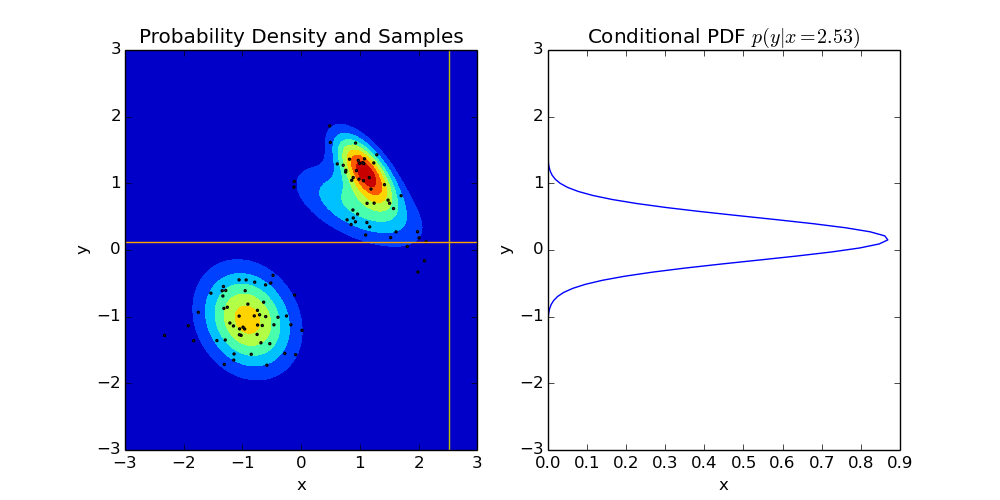
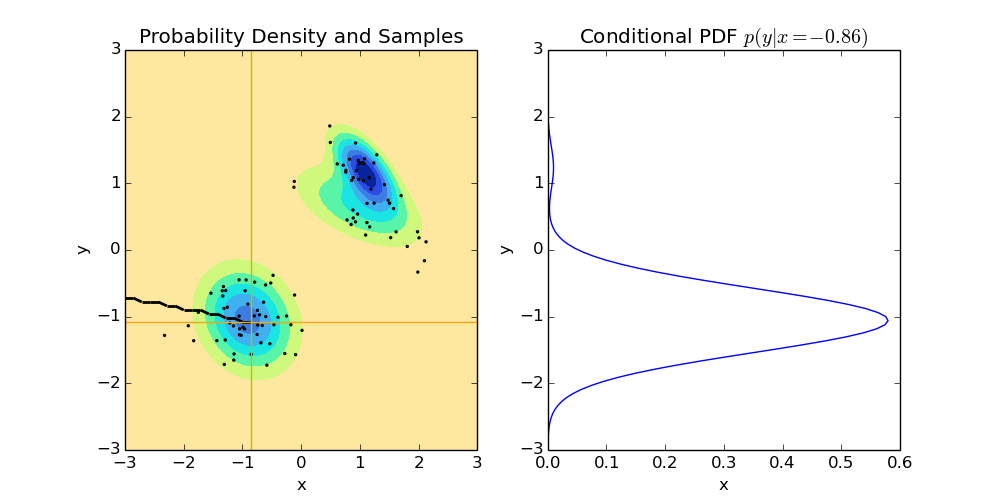
Added probability animations

diff --git a/examples/plot_estimate_gmm_custom_Prob.py b/examples/plot_estimate_gmm_custom_Prob.py
@@ -14,6 +14,8 @@ import numpy as np
 import matplotlib.pyplot as plt
 from gmr.utils import check_random_state
 from gmr import GMM, plot_error_ellipses
+from matplotlib import collections  as mc
+
 
 
 UPPER_LIMIT = 3
@@ -56,12 +58,19 @@ gmm.from_samples(X)
 
 # plt.subplot(1, 3, 2)
 
+# lines = [[(0, 1), (1, 1)], [(2, 3), (3, 3)], [(1, 2), (1, 3)]]
+lines = []
+prev = None
+# c = np.array([(1, 1, 1, 1), (0, 1, 0, 1), (0, 0, 1, 1)])
+c = []
+
 X_sampled = gmm.sample(100)
+SAMPLES = 50
 count = 0
-for i in np.linspace(-3,4,20):
+for i in np.linspace(-3,4, SAMPLES):
     plt.figure(figsize=(10, 5))
 
-    plt.subplot(1, 2, 1)
+    ax = plt.subplot(1, 2, 1)
     plt.title("Probability Density and Samples")
     plt.xlim((LOWER_LIMIT, UPPER_LIMIT))
     plt.ylim((LOWER_LIMIT, UPPER_LIMIT))
@@ -69,18 +78,37 @@ for i in np.linspace(-3,4,20):
     X_test = np.vstack((x.ravel(), y.ravel())).T
     p = gmm.to_probability_density(X_test)
     p = p.reshape(*x.shape)
-    plt.contourf(x, y, p)
+    plt.contourf(x, y, p, colors=('#FEE89F', '#D0F87C', '#58F5A9', '#19E5E3', '#41B0F1', '#3C7DE4', '#2B4BE6', '#08249D'))
     s = [2] * 100
     plt.scatter(X_sampled[:, 0], X_sampled[:, 1], c="pink", s=s)
     plt.xlabel('x')
     plt.ylabel('y')
-    plt.axvline(x=i, c='y')
+
+
+    interception_x = i
+    plt.axvline(x=interception_x, c='y')
 
     X_test = np.linspace(LOWER_LIMIT, UPPER_LIMIT, 100)
     cond = gmm.condition(np.array([0]), np.array([i]))
     y = cond.to_probability_density(X_test[:, np.newaxis])
     # print(np.argmax(y)*STEP + LOWER_LIMIT)
-    plt.axhline(y=np.argmax(y)*STEP + LOWER_LIMIT, c='orange')
+    interception_y = np.argmax(y)*STEP + LOWER_LIMIT
+    plt.axhline(y=interception_y, c='orange')
+
+    if prev:
+        curr = (interception_x, interception_y)
+        lines.append([prev, curr])
+        # print(lines)
+        prev = curr
+
+        c = [(0, 0, 0)] * count
+        c = np.array(c)
+        lc = mc.LineCollection(lines, colors=c, linewidths=2)
+        # fig, ax = plt.subplots()
+        ax.add_collection(lc)
+    else:
+        prev = (interception_x, interception_y)
+        
     
     plt.subplot(1, 2, 2)
     title = "Conditional PDF $p(y | x = " + str(round(i, 2)) + ")$"
